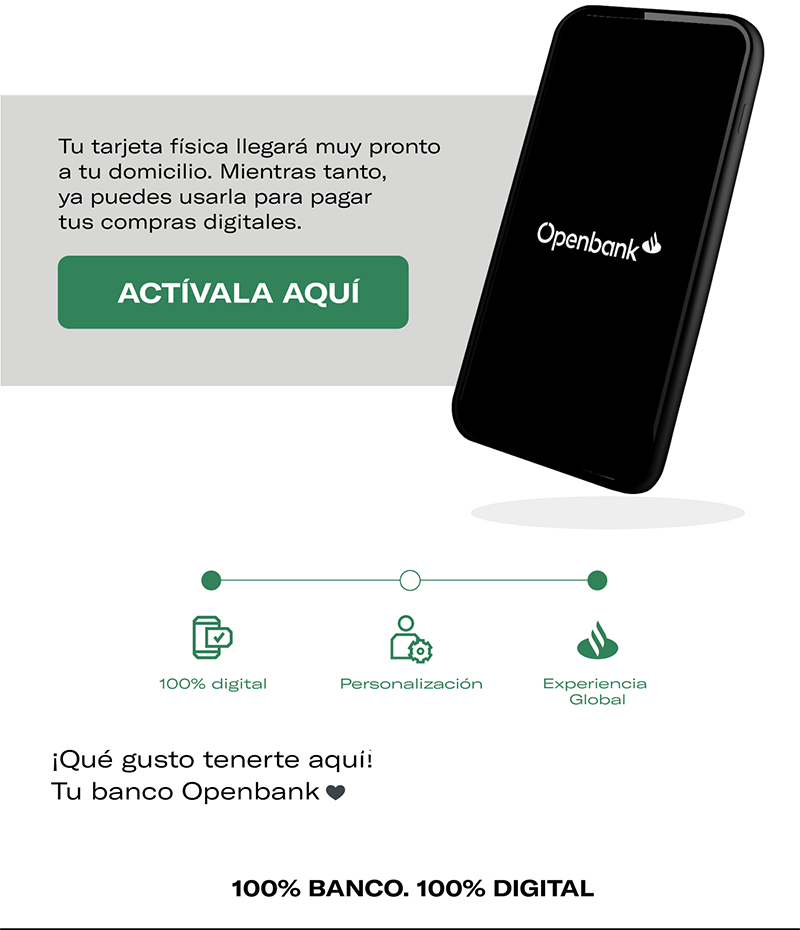
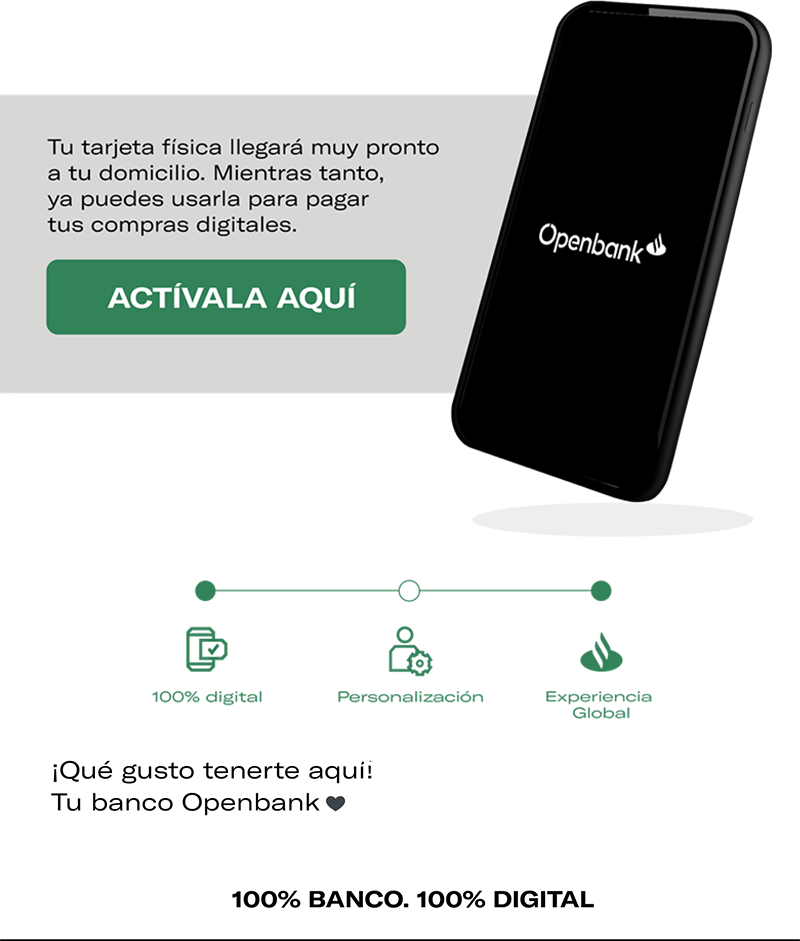
x

diff --git a/OB_MX_09.html b/OB_MX_09.html
@@ -469,28 +469,36 @@
         <table border="0" cellpadding="0" cellspacing="0" width="100%" class="templateColumns darkmodeBackground"
         style="-webkit-text-size-adjust:100%;-ms-text-size-adjust:100%;mso-table-lspace:0pt;mso-table-rspace:0pt;mso-default-height:100%;mso-default-width:100%;mso-space-above:no;mso-space-below:no;margin:0;padding:0;width:100%;max-width:600px;border-collapse:collapse !important;border-spacing:0 !important;table-layout:fixed !important;padding:0 !important;margin: 0; padding: 0; max-width: 600px;font-family: 'GT-America-Extended', sans-serif; vertical-align: top;background-image:url('https://openbank-newsletter-q2k5.vercel.app/img/ob09/ob-9-bg-fill.png');background-repeat: repeat;">
             <tr>
-                <td colspan="2">
+                <td>
                     <a href="#"><img src="https://openbank-newsletter-q2k5.vercel.app/img/ob09/Onboarding---N4---FRIENDS-&-FAMILY.gif" width="100%" alt="N2 TBD FRIENDS & FAMILY" style="display:block;margin-top:-20px; margin-bottom:0;"></a>
                 </td>
             </tr>
             <tr>
-              <td width="50%" style="width: 50%;vertical-align: top;"><img src="https://openbank-newsletter-q2k5.vercel.app/img/ob09/ob9-phone.png" width="100%" alt="N2 TBD FRIENDS & FAMILY" style="display:block;margin:-30px 0 0 0;"></td>
-              <td style="width: 60%;vertical-align: center;">
-                <table border="0" cellpadding="0" cellspacing="0" width="100%" class="templateColumns darkmodeBackground"
-        style="-webkit-text-size-adjust:100%;-ms-text-size-adjust:100%;mso-table-lspace:0pt;mso-table-rspace:0pt;mso-default-height:100%;mso-default-width:100%;mso-space-above:no;mso-space-below:no;margin:0 auto 0;padding:0;width:100%;max-width:400px;border-collapse:collapse !important;border-spacing:0 !important;table-layout:fixed !important; vertical-align: center;">
-                  <tr>
-                    <td style="padding:20px;">
-                      <h2 style="margin:0;font-size: 30px;color:#000;">¡Hola, <span style="color:#8C003C">${name}!</span></h2>
-                      <h3 style="margin:0;font-size: 20px;color:#000;">Gracias por abrir tu Cuenta Débito Open +.</h3>
-                      <p style="font-size: 13px;color:#000;">Tu tarjeta física llegará muy pronto a tu domicilio. Mientras tanto, ya puedes usarla para pagar tus compras digitales.</p>
-                      <img src="https://openbank-newsletter-q2k5.vercel.app/img/ob09/ob9-btn.png" width="100%" alt="" style="display:block;margin:0;width: 210px;">
+              <td>
+                <table>
+                  <td>
+                    <td width="50%" style="width: 50%;vertical-align: top;"><img src="https://openbank-newsletter-q2k5.vercel.app/img/ob09/ob9-phone.png" width="100%" alt="N2 TBD FRIENDS & FAMILY" style="display:block;margin:-30px 0 0 0;"></td>
+                    <td style="width: 60%;vertical-align: center;">
+                      <table border="0" cellpadding="0" cellspacing="0" width="100%" class="templateColumns darkmodeBackground"
+              style="-webkit-text-size-adjust:100%;-ms-text-size-adjust:100%;mso-table-lspace:0pt;mso-table-rspace:0pt;mso-default-height:100%;mso-default-width:100%;mso-space-above:no;mso-space-below:no;margin:0 auto 0;padding:0;width:100%;max-width:400px;border-collapse:collapse !important;border-spacing:0 !important;table-layout:fixed !important; vertical-align: center;">
+                        <tr>
+                          <td style="padding:20px 30px 20px 10px;">
+                            <div class="width: 100%;max-width: 200px">
+                              <h2 style="margin:0;font-size: 28px;color:#666;">¡Hola, <span style="color:#8C003C">${name}!</span></h2>
+                              <h3 style="margin:0;font-size: 18px;color:#666;">Gracias por abrir tu Cuenta Débito Open +.</h3>
+                              <p style="font-size: 13px;color:#666;">Tu tarjeta física llegará muy pronto a tu domicilio. Mientras tanto, ya puedes usarla para pagar tus compras digitales.</p>
+                              <img src="https://openbank-newsletter-q2k5.vercel.app/img/ob09/ob9-btn.png" width="100%" alt="" style="display:block;margin:0;width: 100%; max-width: 180px;">
+                            </div>
+                          </td>
+                        </tr>
+                      </table>
                     </td>
-                  </tr>
+                  </td>
                 </table>
               </td>
             </tr>
             <tr>
-              <td colspan="2"><img src="https://openbank-newsletter-q2k5.vercel.app/img/ob09/ob9-ticket.png" width="100%" alt="" style="display:block;margin-top:0; margin-bottom:0;"></td>
+              <td><img src="https://openbank-newsletter-q2k5.vercel.app/img/ob09/ob9-ticket.png" width="100%" alt="" style="display:block;margin-top:0; margin-bottom:0;"></td>
             </tr>
         </table>
         <table border="0" cellpadding="0" cellspacing="0" width="100%" class="templateColumnsFooter darkmode" bgcolor="#000000"

diff --git a/OB_MX_08.html b/OB_MX_08.html
@@ -467,7 +467,7 @@
 </head>
 <body><div class="wrapper" dir="ltr" style="max-width: 600px; margin: 0 auto;">
         <table border="0" cellpadding="0" cellspacing="0" width="100%" class="templateColumns darkmodeBackground"
-        style="-webkit-text-size-adjust:100%;-ms-text-size-adjust:100%;mso-table-lspace:0pt;mso-table-rspace:0pt;mso-default-height:100%;mso-default-width:100%;mso-space-above:no;mso-space-below:no;margin:0;padding:0;width:100%;max-width:600px;border-collapse:collapse !important;border-spacing:0 !important;table-layout:fixed !important;padding:0 !important;margin: 0; padding: 0; max-width: 600px;font-family: 'GT-America-Extended', sans-serif;background-color:#fff;background-image: url('https://openbank-newsletter-q2k5.vercel.app/img/ob08/bg-white.png'); background-repeat: repeat; background-image: linear-gradient(#ffffff, #ffffff);">
+        style="-webkit-text-size-adjust:100%;-ms-text-size-adjust:100%;mso-table-lspace:0pt;mso-table-rspace:0pt;mso-default-height:100%;mso-default-width:100%;mso-space-above:no;mso-space-below:no;margin:0;padding:0;width:100%;max-width:600px;border-collapse:collapse !important;border-spacing:0 !important;table-layout:fixed !important;padding:0 !important;margin: 0; padding: 0; max-width: 600px;font-family: 'GT-America-Extended', sans-serif;">
             <tr>
                 <td>
                     <a href="#"><img src="https://openbank-newsletter-q2k5.vercel.app/img/ob08/Onboarding-N2---FRIENDS-&-FAMILY.gif" width="100%" alt="N2 TBD FRIENDS & FAMILY" style="display:block;margin-top:-20px; margin-bottom:0;"></a>
